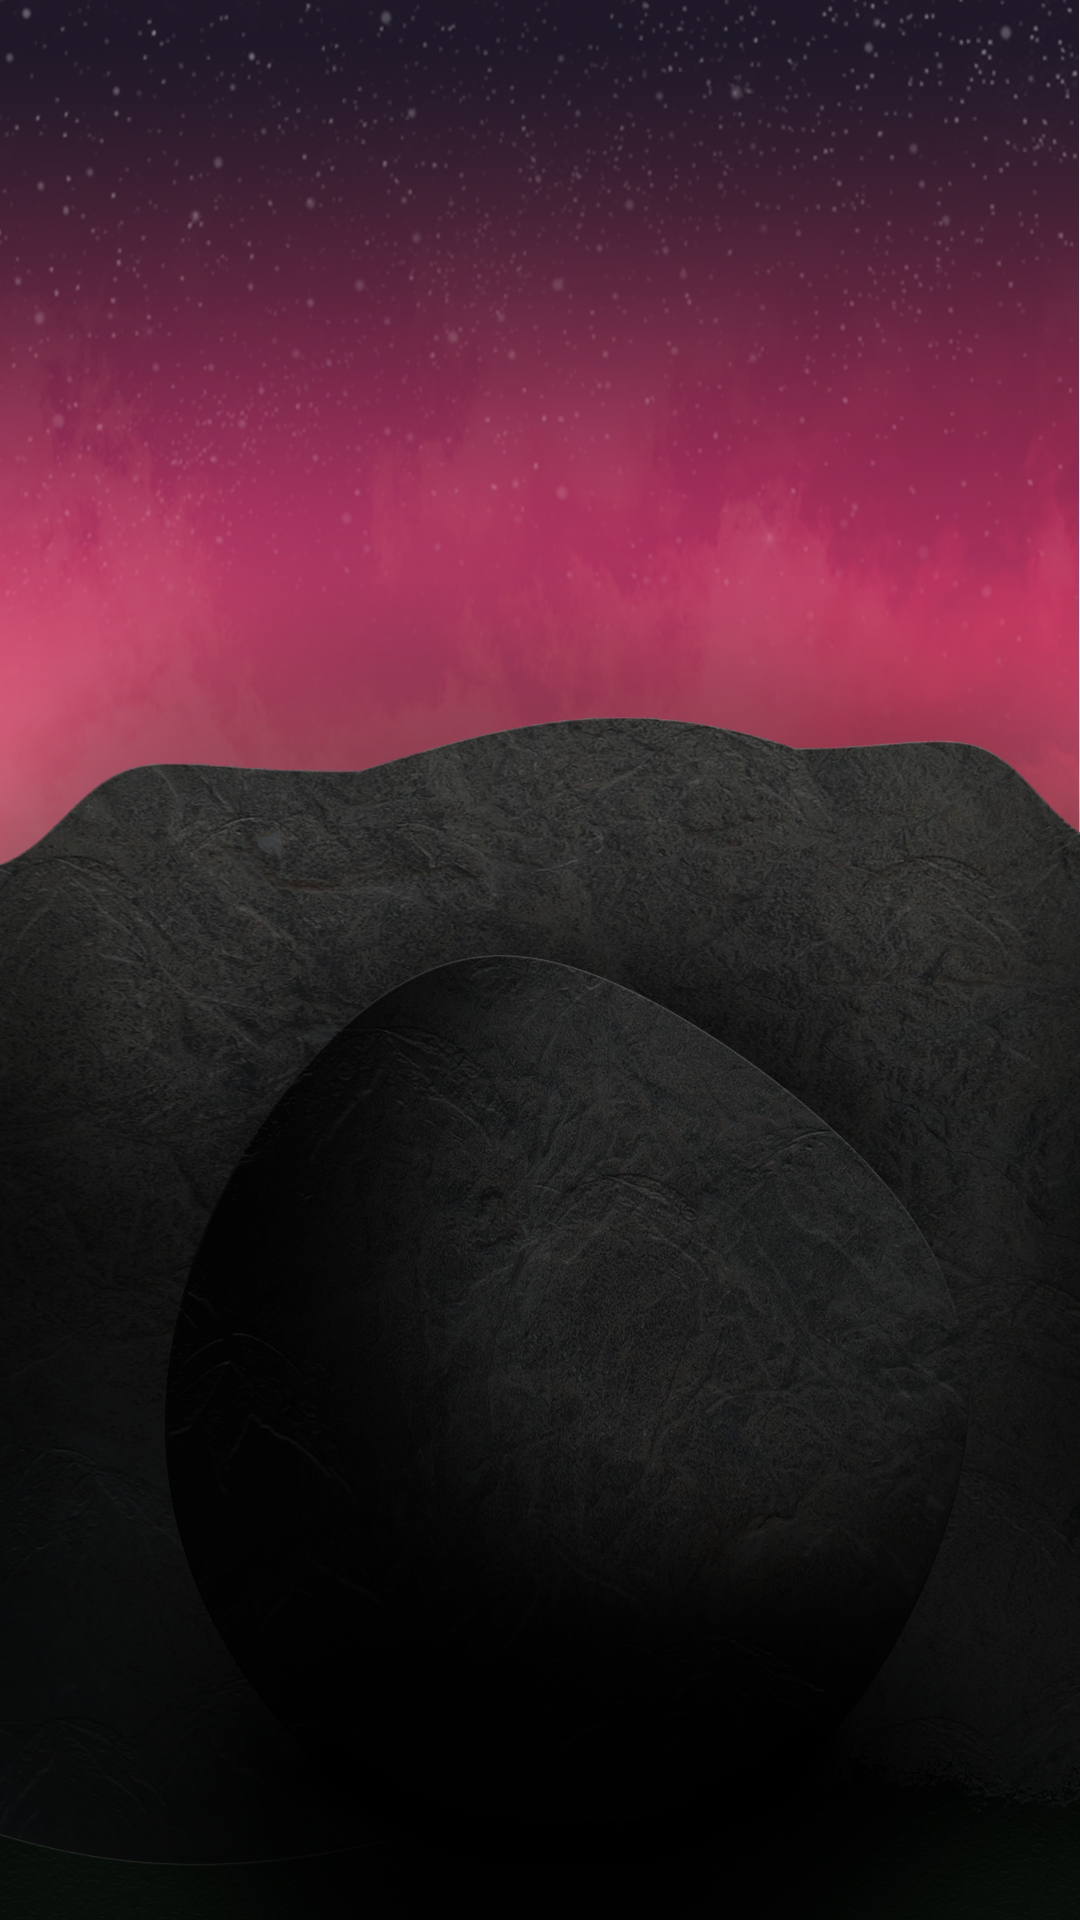
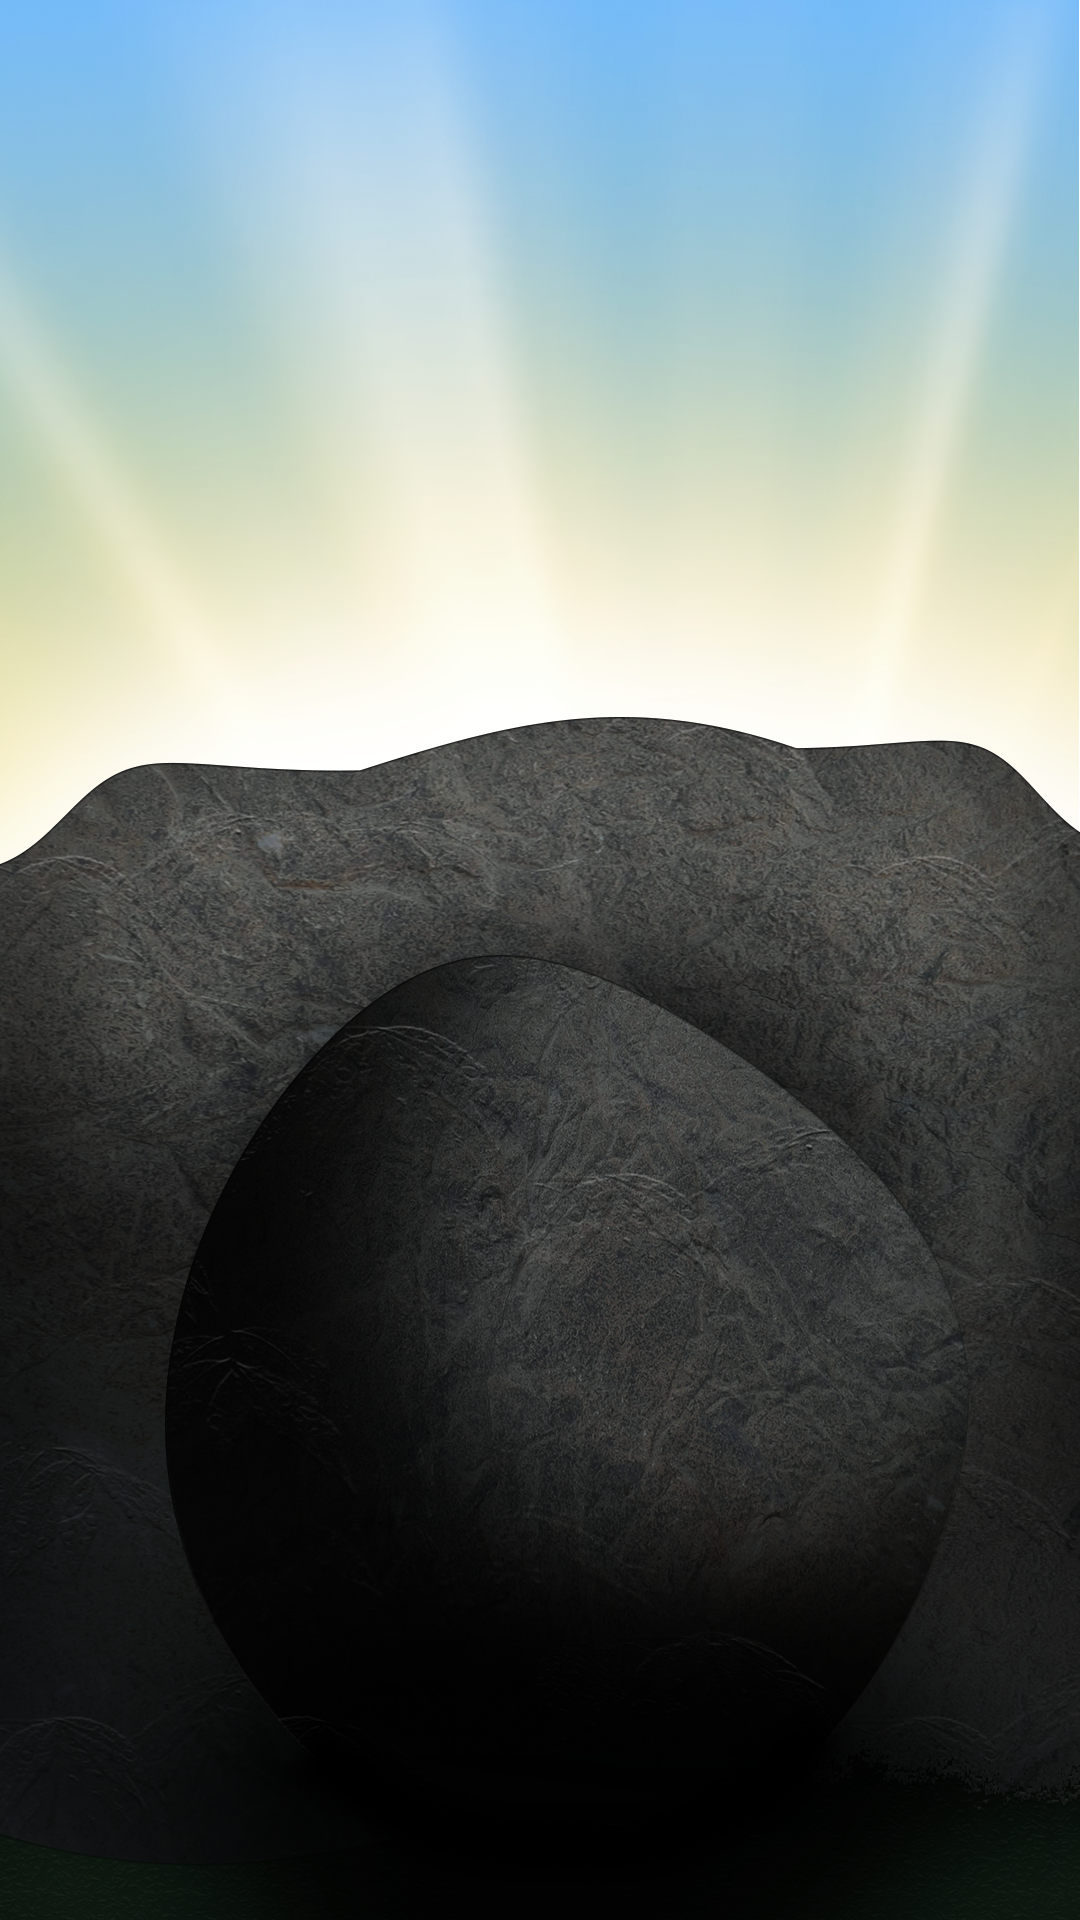
update pics; text

diff --git a/src/app/bible-verse/bible-verse.component.scss b/src/app/bible-verse/bible-verse.component.scss
@@ -4,18 +4,21 @@
     margin: 0;
     position: absolute;
     bottom: 0;
-    background-color: #000000;
+    background-color: rgba($color: black, $alpha: 0.3);
     text-align: left;
     transition: opacity 0.5s ease-in-out;
+    text-shadow: 0 0 1px black, 0 0 1px black, 0 0 1px black, 0 0 1px black;
 }
 .bibleHeader {
     touch-action: none;
-    text-shadow: 0 0 1px black, 0 0 1px black, 0 0 1px black, 0 0 1px black;
+    // text-shadow: 0 0 1px black, 0 0 1px black, 0 0 1px black, 0 0 1px black;
     display: grid;
     grid-template-columns: 1fr auto 1fr;
     align-items: center;
     justify-items: center;
-    background-color: rgba($color: #32563b, $alpha: 0.7);
+    margin: 0 0.3rem;
+    border: 1px solid rgba($color: white, $alpha: 0.3);
+    background-color: transparent;
 }
 .leftTitle {
     justify-self: left;
@@ -100,12 +103,13 @@
     height: 0;
     transition: opacity 0.5s ease-in-out;
     overflow: hidden;
+    transition: height 0.5s ease-in-out, opacity 0.7s ease-in-out;
 }
 .bibleShow {
     opacity: 1;
     height: 10rem;
     overflow-y: scroll;
-    transition: opacity 0.5s ease-in-out;
+    transition: height 0.5s ease-in-out, opacity 0.3s ease-in-out;
 }
 //::ng-deep necessary to work with wasm innerHTML
 //  increase font size for readablility (I'm old)
@@ -113,6 +117,7 @@
     font-family: Georgia,"Times New Roman", Times, serif;
     line-height: 1.45em; // needs to stap 'em' units as 'rem' makes everything very wrong
     font-size: 1.3rem;
+
     @media (max-width: 1000px) {
         font-size: 1.2rem;
     }
@@ -156,7 +161,8 @@
 }
 ::ng-deep .verseNumber {
     text-align: right;
-    color: #777;
+    text-shadow: none;
+    color: rgba($color: white, $alpha: 0.5);
     margin: 0.5rem 0;
     @media (max-width: 767px) {
         margin: 0.3rem 0;

diff --git a/src/app/good-friday/good-friday.component.scss b/src/app/good-friday/good-friday.component.scss
@@ -4,7 +4,7 @@
     min-height: 100vh;//min-height necessary for pics - that took hours
     min-height: 100dvh;//using dynamic viewport height for browsers that support it
     width: 100%;
-    background-image: url("../../assets/backgrounds/Background_Cross.png");
+    background-image: url("../../assets/backgrounds/Background_Cross.jpg");
     background-size: cover;
     background-position: center center;
 }
@@ -21,13 +21,14 @@
     min-height: 100vh;//min-height necessary for pics - that took hours
     min-height: 100dvh;//using dynamic viewport height for browsers that support it
     width: 100%;
-    background-image: url("../../assets/backgrounds/Background_Easter_Saturday.png");
+    background-image: url("../../assets/backgrounds/Background_Good_Friday_evening.jpg");
     background-size: cover;
     background-position: center center;
 }
 .closeColour {
     max-width: 17rem;
     margin: 0 auto;
+    font-size: 3rem;
     color: red;
     text-shadow: 0 0 1px #32563b, 0 0 1px #32563b, 0 0 1px black, 0 0 1px black;
 }

diff --git a/src/app/easter-sunday/easter-sunday.component.scss b/src/app/easter-sunday/easter-sunday.component.scss
@@ -4,14 +4,14 @@
     min-height: 100vh;//min-height necessary for pics - that took hours
     min-height: 100dvh;//using dynamic viewport height for browsers that support it
     width: 100%;
-    background-image: url("../../assets/backgrounds/Background_Easter.png");
+    background-image: url("../../assets/backgrounds/Background_Easter.jpg");
     background-size: cover;
     background-position: center center;
 }
 .easterColour {
     text-shadow: 0 0 1px black, 0 0 1px black, 0 0 1px black, 0 0 1px black;
     font-size: 3rem;
-    margin: 0;
+    margin: 0 1rem;
     color: #32563b;
     text-shadow: 0 0 1px white, 0 0 1px white, 0 0 1px white, 0 0 1px white;
 }

diff --git a/src/app/time.service.ts b/src/app/time.service.ts
@@ -6,7 +6,7 @@ import { Injectable } from '@angular/core';
 export class TimeService {
 
   public timeNow = new Date;
-  // public timeNow = new Date("3/29/2024 10:59:00"); //for testing and change in timeDifference function below
+  // public timeNow = new Date("4/19/2025 15:59:00"); //for testing and change in timeDifference function below
 
   public timeNumber: any;
   public easterSunday: any;
@@ -25,7 +25,7 @@ export class TimeService {
 
   //variables for scripture
   public scriptureCode = 0; //default for random scripture; 1 = Matthew 27; 2 = Luke 24
-  public collapsed: boolean = true;
+  public collapsed: boolean = false;
 
   public timeDifference(){
 

diff --git a/src/app/easter-saturday/easter-saturday.component.scss b/src/app/easter-saturday/easter-saturday.component.scss
@@ -4,12 +4,13 @@
     min-height: 100vh;//min-height necessary for pics - that took hours
     min-height: 100dvh;//using dynamic viewport height for browsers that support it
     width: 100%;
-    background-image: url("../../assets/backgrounds/Background_Easter_Saturday.png");
+    background-image: url("../../assets/backgrounds/Background_Easter_Saturday.jpg");
     background-size: cover;
     background-position: center center;
 }
 .saturdayColour {
-    color: #777;
+    color: #333;
+    font-size: 2rem;
     text-shadow: 0 0 1px white, 0 0 1px white, 0 0 1px white, 0 0 1px white;
     margin-top: 0;
     padding-top: 0.5rem;

diff --git a/src/app/app.component.ts b/src/app/app.component.ts
@@ -40,8 +40,10 @@ export class AppComponent {
     this.time.easterDateFormat();
     //set countdown timer to initial values before navigating to page
     this.time.timeDifference();
-    
+    this.load();
+  }
 
+  load() {
     if (this.time.timeNumber > this.goodFriday && this.time.timeNumber < this.heartOfTheEarth) {
       if ((this.goodFriday + 43200000) < this.time.timeNumber && (this.goodFriday + 54000000) > this.time.timeNumber){
         this.time.goodFridayDarkness = true;

diff --git a/src/app/easter-countdown/easter-countdown.component.scss b/src/app/easter-countdown/easter-countdown.component.scss
@@ -1,7 +1,7 @@
 .countdownPage {
     min-height: 100dvh;
     height:fit-content;
-    width: 100dvw;
+    width: 100%;
     overflow-x: hidden;
     background-image: linear-gradient(skyblue 70%, darkgreen 30%, green );
     background-size: cover;
@@ -141,7 +141,7 @@ h1, h2, h3, h4, h5 {
 }
 .mountains {
     position: absolute;
-    width: 100dvw;
+    width: 100%;
     height: 20dvh; //don't touch - works
     left: 0;
     bottom: 30%;

diff --git a/src/styles.scss b/src/styles.scss
@@ -2,9 +2,11 @@
 body, html{
     position: relative; //needed to keep bible widget on bottom
     // min-height: 100vh;
-    margin: 0;
+    max-width: 700px;
+    margin: 0 auto;
     text-align: center;
     color: white;
+    background-color: black;
     -webkit-tap-highlight-color: transparent; //need for chrome
     *:focus {
     outline-color: transparent; //needed for chrome

diff --git a/src/app/good-friday/good-friday.component.ts b/src/app/good-friday/good-friday.component.ts
@@ -23,7 +23,6 @@ export class GoodFridayComponent {
     //Countdown timer
     setInterval(()=>{this.time.timeDifference();
       // console.log(this.time.seconds)
-    }, 1000)
+    }, 1000);
   }
-
 }
